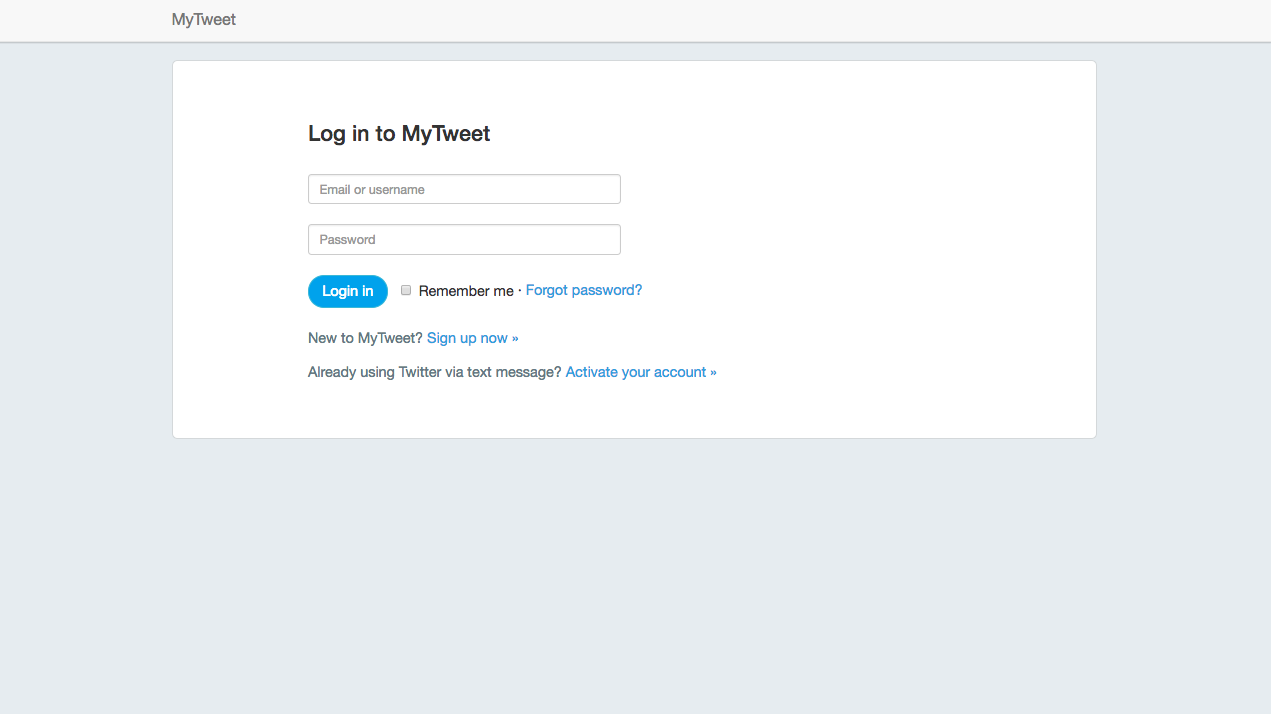
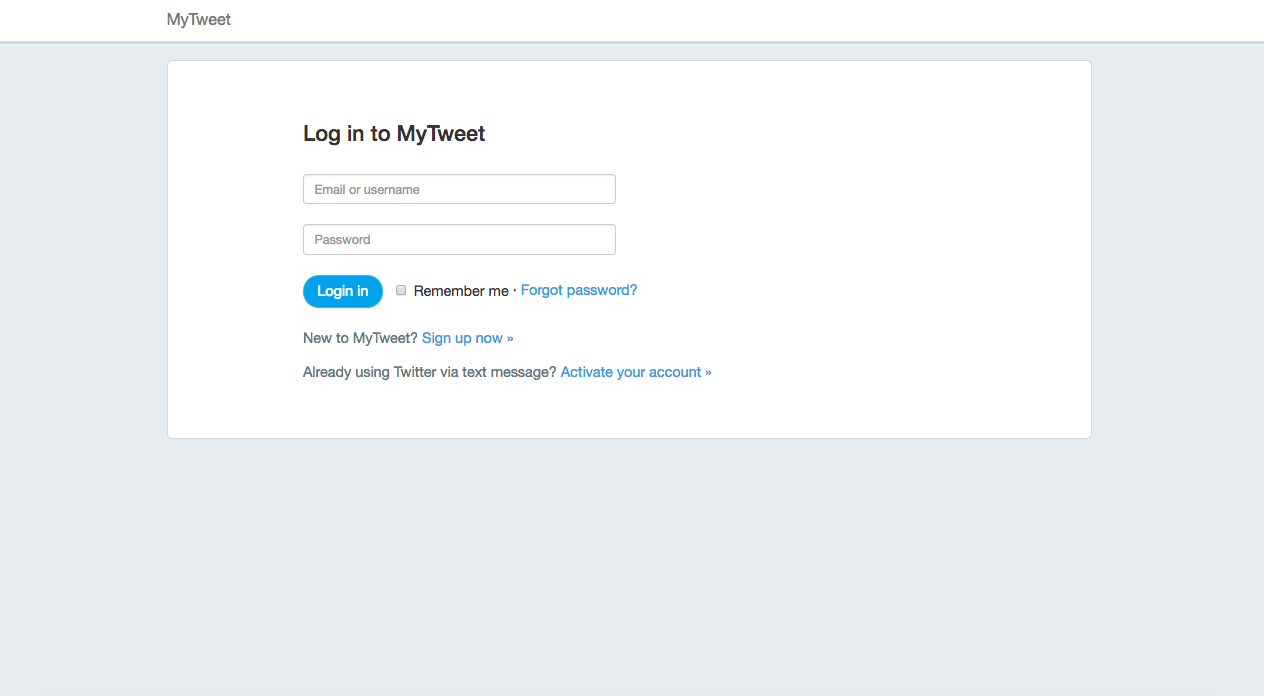
Minor update

diff --git a/resources/views/auth/login.blade.php b/resources/views/auth/login.blade.php
@@ -22,6 +22,7 @@
     }
     
     .navbar{
+        background: #fff;
         -webkit-box-shadow: 0 1px 1px 0 rgba(0, 0, 0, 0.1), 0 1px 1px 0 rgba(0, 0, 0, 0.1);
         -moz-box-shadow: 0 1px 1px 0 rgba(0, 0, 0, 0.1), 0 1px 1px 0 rgba(0, 0, 0, 0.1);
         box-shadow: 0 1px 1px 0 rgba(0, 0, 0, 0.1), 0 1px 1px 0 rgba(0, 0, 0, 0.1);
@@ -79,7 +80,7 @@
                 <a href="#">Forgot password?</a>
                 <br><br>
                 <p style="font-size: 16px;color: #657786;font-weight: 400;">New to MyTweet? 
-                    <a href="#">Sign up now »</a>
+                    <a href="signup">Sign up now »</a>
                 </p>
                 <p style="font-size: 16px;color: #657786;font-weight: 400;">Already using Twitter via text message? 
                     <a href="#">Activate your account »</a>
